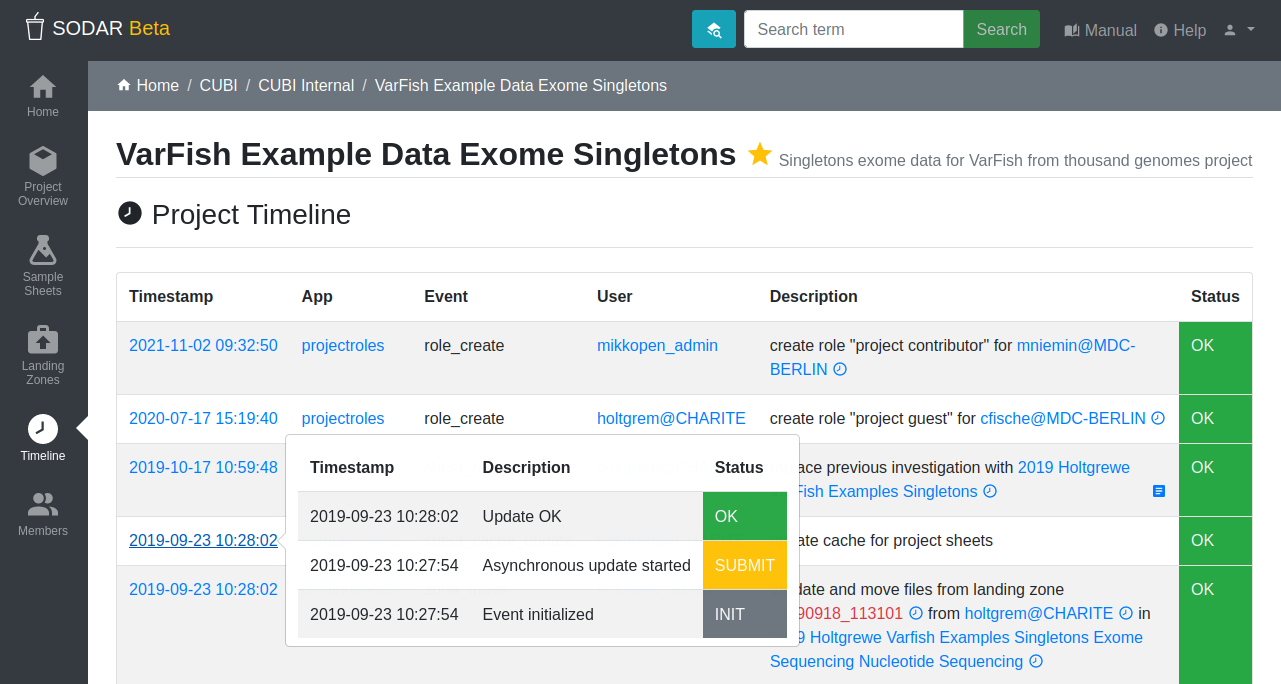
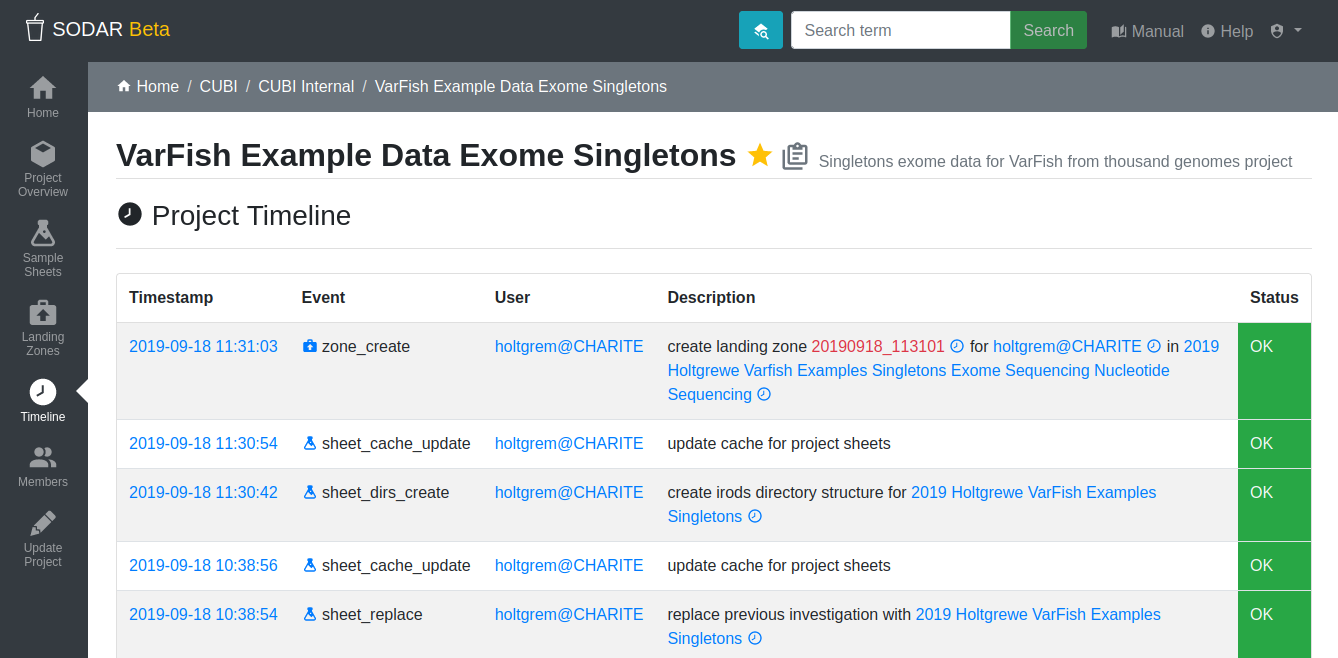
cleanup and prepare v0.11.3 release (#1388)

diff --git a/samplesheets/vueapp/src/components/modals/VersionSaveModal.vue b/samplesheets/vueapp/src/components/modals/VersionSaveModal.vue
@@ -26,13 +26,13 @@
         <b-button
             variant="secondary"
             id="sodar-ss-btn-cancel"
-            @click="hideModal(false)">
+            @click="hideModal()">
           <i class="iconify" data-icon="mdi:close-thick"></i> Cancel
         </b-button>
         <b-button
             variant="primary"
             id="sodar-ss-btn-save"
-            @click="hideModal(true)"
+            @click="hideModal()"
             ref="updateBtn">
           <i class="iconify" data-icon="mdi:check-bold"></i> Save
         </b-button>
@@ -78,7 +78,7 @@ export default {
       // Show element
       this.$refs.versionSaveModal.show()
     },
-    hideModal (save) {
+    hideModal () {
       this.postSave()
       this.$refs.versionSaveModal.hide()
     }

diff --git a/sodar/users/auth.py b/sodar/users/auth.py
@@ -1,5 +1,6 @@
-"""Module for using HTTP Auth Basic login if user is not already authenticated
-via Django session.
+"""
+Module for using HTTP Auth Basic login if user is not already authenticated via
+Django session.
 """
 
 import base64
@@ -13,8 +14,9 @@ from django.utils.deprecation import MiddlewareMixin
 
 
 class FallbackToAuthBasicMiddleware(MiddlewareMixin):
-    """Authentication middleware that allows users to use HTTP Auth Basic
-    instead of requiring the user to be in the session.
+    """
+    Authentication middleware that allows users to use HTTP Auth Basic instead
+    of requiring the user to be in the session.
     """
 
     def process_request(self, request):
@@ -22,17 +24,15 @@ class FallbackToAuthBasicMiddleware(MiddlewareMixin):
         assert hasattr(
             request, 'user'
         ), 'AuthenticationMiddleware must be active'
-
         # We are already done if the user is already authenticated.
         if request.user.is_authenticated:
             return
-
         # Allow disabling of basic auth alltogether in configuration.
         if getattr(settings, 'BASICAUTH_DISABLE', False):
             return
 
-        # When user is not logged in, try to login via ``HTTP_AUTHORIZATION``
-        # header.  If this header is not set, send the response to ask for
+        # When user is not logged in, try to login via HTTP_AUTHORIZATION
+        # header. If this header is not set, send the response to ask for
         # Auth Basic.
         if 'HTTP_AUTHORIZATION' in request.META:
             auth = request.META['HTTP_AUTHORIZATION'].split()
@@ -52,7 +52,7 @@ class FallbackToAuthBasicMiddleware(MiddlewareMixin):
 
 
 def cbv_decorator_from_middleware(middleware):
-    """A variant for ``decorator_from_middleware`` for class-based views."""
+    """A variant for decorator_from_middleware for class-based views."""
 
     def decorator(cls):
         dispatch = cls.dispatch
@@ -68,7 +68,7 @@ def cbv_decorator_from_middleware(middleware):
     return decorator
 
 
-#: Decorator for ``FallbackToAuthBasicMiddleware``
+# Decorator for FallbackToAuthBasicMiddleware
 fallback_to_auth_basic = cbv_decorator_from_middleware(
     FallbackToAuthBasicMiddleware
 )

diff --git a/config/celery.py b/config/celery.py
@@ -1,7 +1,7 @@
 import os
 from celery import Celery
 
-# set the default Django settings module for the 'celery' program.
+# set the default Django settings module for the 'celery' program
 os.environ.setdefault('DJANGO_SETTINGS_MODULE', 'config.settings.local')
 
 app = Celery('sodar')
@@ -14,17 +14,19 @@ app.config_from_object('django.conf:settings', namespace='CELERY')
 
 if 'production' in os.environ.get('DJANGO_SETTINGS_MODULE'):
     """
-    # Configure routing as we nee different degrees of concurrency for the background job processing.
+    # Configure routing as we nee different degrees of concurrency for the
+    # background job processing.
     app.conf.task_routes = {
-        # The bulk import jobs share a common name pattern and should go to the "import" queue.
-        "*.run_import_*_bg_job": {"queue": "import"},
+        # The bulk import jobs share a common name pattern and should go to
+        # the "import" queue.
+        '*.run_import_*_bg_job': {'queue': 'import'},
         # The filter tasks go to the "query" queue.
-        "*.*_filter_task": {"queue": "query"},
+        '*.*_filter_task': {'queue': 'query'},
     }
     """
 
-    # Explicitely set the name of the default queue to default (is celery).
+    # Explicitely set the name of the default queue to default (is celery)
     app.conf.task_default_queue = 'default'
 
-# Load task modules from all registered Django app configs.
+# Load task modules from all registered Django app configs
 app.autodiscover_tasks()

diff --git a/samplesheets/plugins.py b/samplesheets/plugins.py
@@ -690,17 +690,6 @@ class SampleSheetStudyPluginPoint(PluginPoint):
     # TODO: TBD: Do we need this?
     permission = None
 
-    def update_cache(self, name=None, project=None, user=None):
-        """
-        Update cached data for this app, limitable to item ID and/or project.
-
-        :param name: Item name to limit update to (string, optional)
-        :param project: Project object to limit update to (optional)
-        :param user: User object to denote user triggering the update (optional)
-        """
-        # TODO: Implement this in your app plugin
-        return None
-
     def get_shortcut_column(self, study, study_tables):
         """
         Return structure containing links for an extra study table links column.
@@ -720,6 +709,17 @@ class SampleSheetStudyPluginPoint(PluginPoint):
         :param study_tables: Rendered study tables (dict)
         :return: Dict
         """
+        return None
+
+    def update_cache(self, name=None, project=None, user=None):
+        """
+        Update cached data for this app, limitable to item ID and/or project.
+
+        :param name: Item name to limit update to (string, optional)
+        :param project: Project object to limit update to (optional)
+        :param user: User object to denote user triggering the update (optional)
+        """
+        # TODO: Implement this in your app plugin
         return None
 
 

diff --git a/sodar/users/models.py b/sodar/users/models.py
@@ -6,8 +6,8 @@ from projectroles.models import SODARUser
 # fields and functions as needed.
 
 # NOTE: If integrating projectroles with an existing project, you will have to
-#       include migration scripts for populating the sodar_uuid field. See:
-#       https://docs.djangoproject.com/en/1.11/howto/writing-migrations/#migrations-that-add-unique-fields
+# include migration scripts for populating the sodar_uuid field. See:
+# https://docs.djangoproject.com/en/3.2/howto/writing-migrations/#migrations-that-add-unique-fields
 
 
 class User(SODARUser):

diff --git a/samplesheets/studyapps/germline/utils.py b/samplesheets/studyapps/germline/utils.py
@@ -79,7 +79,7 @@ def get_pedigree_file_path(file_type, source, study_tables):
         try:
             obj_list = irods_backend.get_objects(query_path)
             for obj in obj_list['irods_data']:
-                # NOTE: We non longer expect the SAMPLE name in filenames
+                # NOTE: We no longer expect the SAMPLE name in filenames
                 if obj['name'].lower().endswith(FILE_TYPE_SUFFIXES[file_type]):
                     file_paths.append(obj['path'])
         except FileNotFoundError:

diff --git a/config/settings/base.py b/config/settings/base.py
@@ -577,7 +577,7 @@ SITE_INSTANCE_TITLE = env.str('SITE_INSTANCE_TITLE', 'CUBI SODAR')
 
 
 # General API settings
-SODAR_API_DEFAULT_VERSION = '0.11.2'
+SODAR_API_DEFAULT_VERSION = '0.11.3'
 SODAR_API_ALLOWED_VERSIONS = [
     '0.7.0',
     '0.7.1',
@@ -588,6 +588,7 @@ SODAR_API_ALLOWED_VERSIONS = [
     '0.11.0',
     '0.11.1',
     '0.11.2',
+    '0.11.3',
 ]
 SODAR_API_MEDIA_TYPE = 'application/vnd.bihealth.sodar+json'
 SODAR_API_DEFAULT_HOST = env.url(

diff --git a/docs_manual/source/conf.py b/docs_manual/source/conf.py
@@ -26,7 +26,7 @@ copyright = '2018-2022, BIH Core Unit Bioinformatics'
 author = 'BIH Core Unit Bioinformatics'
 
 # The full version, including alpha/beta/rc tags
-release = '0.11.3-WIP'
+release = '0.11.3'
 
 
 # -- General configuration ---------------------------------------------------

diff --git a/docs_manual/source/ui_project_timeline.rst b/docs_manual/source/ui_project_timeline.rst
@@ -16,13 +16,11 @@ and changes to the sample sheets. The activity is displayed as a list of events.
 For each event the following details are available:
 
 Timestamp
-    Time of the event's creation. This doubles as a link to a popup which
+    Time of the event's creation. This doubles as a link to a modal which
     displays the event status history. This can be useful information e.g. in
     case of asynchronous background events.
-App
-    SODAR application in which the event was created.
 Event
-    Type of the event.
+    Type of the event along with the SODAR application which created the event.
 User
     User initiating the event.
 Description

diff --git a/docs_manual/source/sodar_release_notes.rst b/docs_manual/source/sodar_release_notes.rst
@@ -8,6 +8,19 @@ list of changes in current and previous releases, see the
 :ref:`full changelog<sodar_changelog>`.
 
 
+v0.11.3 (2022-07-20)
+====================
+
+Release for minor updates, maintenance and bug fixes.
+
+- Support for additional sample sheet templates
+- Hide uneditable sheet template fields in forms
+- Minor updates and general bug fixes
+- Upgrade Vue app dependencies
+- Upgrade to SODAR Core v0.10.13
+- Update manual and remove separate dev docs
+
+
 v0.11.2 (2022-03-04)
 ====================
 

diff --git a/docs_manual/source/ui_project_overview.rst b/docs_manual/source/ui_project_overview.rst
@@ -22,10 +22,11 @@ set of information and sidebar links, while still following the same general
 structure.
 
 
-Project Overview
+Overview Section
 ================
 
-The project overview consists of the following sections:
+The project overview section on the right hand side of the view consists of the
+following elements:
 
 ReadMe
     An optional description for the project in MarkDown notation. Can be updated

diff --git a/docs_manual/source/api_documentation.rst b/docs_manual/source/api_documentation.rst
@@ -45,7 +45,7 @@ expected version.
 
 .. code-block:: console
 
-    Accept: application/vnd.bihealth.sodar+json; version=0.11.2
+    Accept: application/vnd.bihealth.sodar+json; version=0.11.3
 
 Specific sections of the SODAR API may require their own accept header. See the
 exact header requirement in the respective documentation on each section of the
